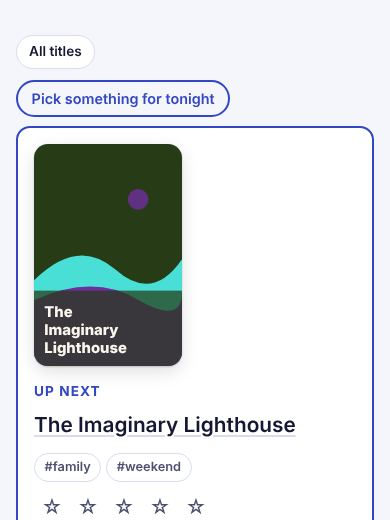
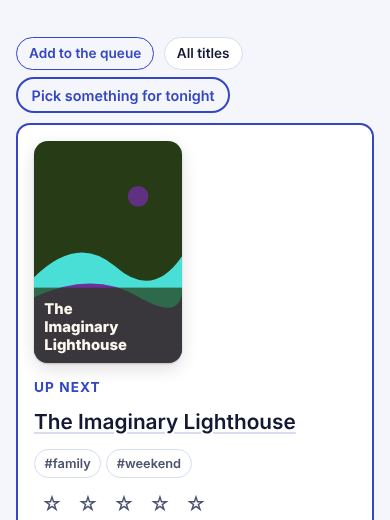
Streaming: tooltips only on hover or focus; the stubs' charts in one fold; the queue's controls in one row
From design.d's round 5 addendum (synthetic users on 6750e62):
- Chart tooltips open only for a mouse hover or keyboard focus, never on a touch
  or on load.
- Ticket stubs: the three figures stay the hero; the charts fold into one
  "Your charts" panel, open on a desktop and closed on a phone, so the titles
  come sooner.
- The queue: "Add to the queue", "All titles" and "Pick something for tonight"
  sit in one row above Up next; the add box opens there instead of at the foot.
- docs/designs.md and the chooser screenshots follow.

Agent: streaming.d@SovereignWebsite.dinis
Claude-Session: https://claude.ai/code/session_015gaHdbE7t4XNf21L7neufF

diff --git a/site/pt/index.html b/site/pt/index.html
@@ -91,7 +91,6 @@
 <div id="hero" class="hero"></div>
 <p class="ticket-row" id="ticket-row" hidden><button type="button" id="ticket-toggle" class="chip" aria-expanded="false">Novo bilhete</button></p>
 <div id="ticket-slot"></div>
-<p class="all-row" id="all-row" hidden><button type="button" id="all-toggle" class="chip quiet-chip" aria-expanded="false" aria-controls="tabsblock">Todos os títulos</button></p>
 <div id="tabsblock" class="tabsblock">
 <div class="tabs" role="group" aria-label="A sua lista">
   <button type="button" class="tab" data-status="watch" aria-pressed="true">Para ver <span class="n" id="n-watch">0</span></button>
@@ -101,6 +100,8 @@
 <p id="list-count" class="list-count"></p>
 </div>
 <div class="bar2">
+  <button type="button" id="queue-add" class="chip" aria-expanded="false" hidden>Adicionar à fila</button>
+  <button type="button" id="all-toggle" class="chip quiet-chip" aria-expanded="false" aria-controls="tabsblock" hidden>Todos os títulos</button>
   <div id="pickbar" class="pickbar" hidden><button type="button" id="pick-btn" class="quiet">Escolher algo para hoje à noite</button></div>
   <button type="button" id="refine-toggle" class="chip quiet-chip" aria-expanded="false" aria-controls="refine" hidden>Pesquisa e etiquetas</button>
 </div>
@@ -115,7 +116,6 @@
 <div id="example-banner" class="banner" hidden><p>Lista de exemplo, inventada.</p><button type="button" id="example-clear" class="text-danger" aria-label="Remover o exemplo">Remover</button></div>
 <div id="stage" class="stage"></div>
 <div id="empty" class="empty" hidden></div>
-<div id="add-slot"></div>
 </section>
 
 <div id="toast" class="toast" role="status" hidden><span id="toast-msg"></span> <button type="button" id="toast-undo">Anular</button></div>
@@ -184,7 +184,7 @@
 <p class="design-pick"><label for="design">Escolher um desenho</label> <select id="design" name="design"><option value="auto">Automático (A prateleira)</option><option value="shelf">A prateleira</option><option value="queue">A fila</option><option value="cards">Fichas</option><option value="stubs">Bilhetes</option><option value="list">A lista</option></select></p>
 Sovereign Website. Source: <a href="https://github.com/SovereignWebsite/Site__Tool__Streaming">github.com/SovereignWebsite/Site__Tool__Streaming</a>.</footer>
 </main>
-<script type="application/json" id="i18n">{"tab_watch":"Para ver","tab_seen":"Vistos","tab_hidden":"Ocultos","count_watch":"{n} para ver","count_seen":"{n} vistos","count_hidden":"{n} ocultos","countTag":" com #{t}","more":"Mais","newTicket":"Novo bilhete","allTitles":"Todos os títulos","refineBtn":"Pesquisa e etiquetas","addQueue":"Adicionar à fila","addTile":"Adicionar um título","edit":"Nota e etiquetas","notePh":"A sua nota privada","tagsLabel":"As suas etiquetas (separadas por vírgulas)","tagsPh":"família, fim de semana","allTags":"Todas","tagFilter":"Filtrar por etiqueta","filterTag":"Mostrar só #{t}","filterTagCount":"Mostrar só #{t} ({n} títulos)","undo":"Anular","undone":"Reposto.","removedT":"Removeu {t}.","hiddenT":"Ocultou {t}.","pickBtn":"Escolher algo para hoje à noite","pickTag":"Escolher algo com #{t}","pickTitle":"Hoje à noite:","pickAgain":"Escolher outra vez","close":"Fechar","picked":"Escolhido: {t}.","openRecord":"Ficha","recordH":"Ficha","r_status":"Estado","r_rating":"A sua classificação","r_tags":"As suas etiquetas","r_note":"A sua nota","r_added":"Adicionado","r_seen":"Visto em","r_link":"Ligação","none":"Nenhuma","picAdd":"Adicionar uma imagem sua","picChange":"Mudar a sua imagem","picRemove":"Remover a sua imagem","picNote":"A sua imagem é reduzida e fica só neste navegador. Sem imagem, o título recebe um cartaz desenhado a partir das suas próprias palavras.","picSaved":"Imagem guardada neste navegador.","picFailed":"Não foi possível ler esse ficheiro como imagem.","picRemoved":"Imagem removida.","r_picture":"Imagem","picOwn":"Sua, guardada neste navegador","picGenerated":"Desenhada a partir do título","noNote":"Ainda sem nota.","addedOn":"Adicionado a {d}","seenOn":"visto a {d}","moveUp":"Subir","moveDown":"Descer","makeTonight":"Ver hoje","movedUp":"{t} subiu.","movedDown":"{t} desceu.","madeTonight":"{t} é o próximo.","upNext":"A seguir","laterH":"Depois","admitOne":"Entrada individual","unusedH":"Ainda por ver","asTable":"Mostrar em tabela","noTags":"Ainda sem etiquetas. Acrescente-as em Nota e etiquetas.","statsH":"Os seus números","statSeen":"Vistos","statWatch":"Para ver","statAvg":"Classificação média","chartMonths":"Títulos vistos, últimos 12 meses","tipMonth":"{m}: {n} vistos","colMonth":"Mês","colSeen":"Vistos","chartRatings":"As suas classificações","tipRating":"{s}: {n}","oneStar":"1 estrela","nStars":"{s} estrelas","oneTitle":"1 título","nTitles":"{n} títulos","exampleShort":"Lista de exemplo, inventada.","exampleRemove":"Remover","addOpen":"Adicionar um título","colRating":"Classificação","colTitles":"Títulos","chartTags":"As suas etiquetas","jsonH":"Esta ficha em JSON","copy":"Copiar JSON","copied":"Copiado.","copyFailed":"O navegador não quis copiar. Selecione o texto e copie-o.","download":"Descarregar JSON","markSeen":"Marcar como visto","toWatch":"Voltar a para ver","hide":"Ocultar","unhide":"Mostrar","note":"Adicionar nota","editNote":"Editar nota","saveNote":"Guardar nota","cancel":"Cancelar","remove":"Remover","open":"Abrir ficha","rateFor":"Classificação de {t}","star":"{n} em 5","noteFor":"Nota sobre {t}","actionsFor":"{a}: {t}","emptyWatch":"A sua lista está vazia.","emptySteps":["Procure um título na página de streaming do PrompTugal.","Copie a ligação, ou só o nome.","Cole-o na caixa acima e prima Adicionar."],"emptySeen":"Ainda não marcou nada como visto.","emptyHidden":"Nada oculto.","noMatch":"Nada nesta lista corresponde à sua pesquisa.","exampleBtn":"Mostrar uma lista de exemplo","exampleBanner":"Isto é um exemplo, com títulos inventados. Ao adicionar um título seu, o exemplo desaparece.","exampleClear":"Remover o exemplo","examples":[{"title":"O Farol Imaginário","status":"watch","rating":0,"note":"Inventado para este exemplo.","tags":["família","fim de semana"]},{"title":"Noites no Porto de Exemplo","status":"watch","rating":0,"note":"","tags":["fim de semana"]},{"title":"Lua de Papel sobre Lisboa","status":"watch","rating":0,"note":"","tags":["família"]},{"title":"O Último Comboio a Fingir","status":"watch","rating":0,"note":"","tags":["policial"]},{"title":"Hora da Comédia Inventada","status":"watch","rating":0,"note":"","tags":["comédia"]},{"title":"As Colinas Fictícias","status":"seen","rating":4,"note":"Um título inventado. As suas notas ficam neste navegador.","tags":["família"],"seenDaysAgo":9},{"title":"Uma Costa Inventada","status":"seen","rating":5,"note":"","tags":["documentário"],"seenDaysAgo":20},{"title":"O Detetive Inventado","status":"seen","rating":3,"note":"","tags":["policial"],"seenDaysAgo":34},{"title":"Estação de Lado Nenhum","status":"seen","rating":4,"note":"","tags":["policial","fim de semana"],"seenDaysAgo":52},{"title":"Vale de Exemplo","status":"seen","rating":5,"note":"","tags":["documentário"],"seenDaysAgo":83},{"title":"Dez Verões Imaginários","status":"seen","rating":2,"note":"","tags":[],"seenDaysAgo":110},{"title":"Ruas Fictícias e Calmas","status":"hidden","rating":1,"note":"","tags":[]}],"added":"Adicionado.","removed":"Removido.","prefssaved":"Preferências guardadas.","viewadded":"Vista guardada.","exported":"Exportado.","imported":"Importado.","merged":"Foram adicionados {n} títulos novos.","wiped":"Tudo foi removido deste navegador.","moved_seen":"Marcado como visto.","moved_watch":"De volta à sua lista para ver.","moved_hidden":"Oculto.","noteSaved":"Nota guardada.","rated":"Classificado com {n} em 5.","unrated":"Classificação removida.","noviews":"Ainda não há vistas guardadas.","nostorage":"O navegador não quis guardar isto. Exporte uma cópia para o conservar.","confirmwipe":"Remover tudo deste navegador?","err_empty":"Escreva primeiro um título ou cole uma ligação.","err_badlink":"Essa ligação não parece correta.","err_host":"Só são aceites ligações para a página de streaming do PrompTugal ou para themoviedb.org. Escreva antes o título.","err_notitle":"Não foi possível ler um título dessa ligação. Escreva antes o título.","err_duplicate":"Esse título já está na sua lista.","err_noname":"Dê um nome à vista.","err_viewhost":"Uma vista guardada tem de ser uma ligação para data.promptugal.news/streaming/.","err_import":"Esse ficheiro não é uma exportação do Streaming."}</script>
+<script type="application/json" id="i18n">{"tab_watch":"Para ver","tab_seen":"Vistos","tab_hidden":"Ocultos","count_watch":"{n} para ver","count_seen":"{n} vistos","count_hidden":"{n} ocultos","countTag":" com #{t}","more":"Mais","newTicket":"Novo bilhete","allTitles":"Todos os títulos","refineBtn":"Pesquisa e etiquetas","addQueue":"Adicionar à fila","addTile":"Adicionar um título","edit":"Nota e etiquetas","notePh":"A sua nota privada","tagsLabel":"As suas etiquetas (separadas por vírgulas)","tagsPh":"família, fim de semana","allTags":"Todas","tagFilter":"Filtrar por etiqueta","filterTag":"Mostrar só #{t}","filterTagCount":"Mostrar só #{t} ({n} títulos)","undo":"Anular","undone":"Reposto.","removedT":"Removeu {t}.","hiddenT":"Ocultou {t}.","pickBtn":"Escolher algo para hoje à noite","pickTag":"Escolher algo com #{t}","pickTitle":"Hoje à noite:","pickAgain":"Escolher outra vez","close":"Fechar","picked":"Escolhido: {t}.","openRecord":"Ficha","recordH":"Ficha","r_status":"Estado","r_rating":"A sua classificação","r_tags":"As suas etiquetas","r_note":"A sua nota","r_added":"Adicionado","r_seen":"Visto em","r_link":"Ligação","none":"Nenhuma","picAdd":"Adicionar uma imagem sua","picChange":"Mudar a sua imagem","picRemove":"Remover a sua imagem","picNote":"A sua imagem é reduzida e fica só neste navegador. Sem imagem, o título recebe um cartaz desenhado a partir das suas próprias palavras.","picSaved":"Imagem guardada neste navegador.","picFailed":"Não foi possível ler esse ficheiro como imagem.","picRemoved":"Imagem removida.","r_picture":"Imagem","picOwn":"Sua, guardada neste navegador","picGenerated":"Desenhada a partir do título","noNote":"Ainda sem nota.","addedOn":"Adicionado a {d}","seenOn":"visto a {d}","moveUp":"Subir","moveDown":"Descer","makeTonight":"Ver hoje","movedUp":"{t} subiu.","movedDown":"{t} desceu.","madeTonight":"{t} é o próximo.","upNext":"A seguir","laterH":"Depois","admitOne":"Entrada individual","unusedH":"Ainda por ver","asTable":"Mostrar em tabela","noTags":"Ainda sem etiquetas. Acrescente-as em Nota e etiquetas.","statsH":"Os seus números","statSeen":"Vistos","statWatch":"Para ver","statAvg":"Classificação média","chartMonths":"Títulos vistos, últimos 12 meses","tipMonth":"{m}: {n} vistos","colMonth":"Mês","colSeen":"Vistos","chartRatings":"As suas classificações","tipRating":"{s}: {n}","oneStar":"1 estrela","nStars":"{s} estrelas","oneTitle":"1 título","nTitles":"{n} títulos","exampleShort":"Lista de exemplo, inventada.","exampleRemove":"Remover","addOpen":"Adicionar um título","colRating":"Classificação","colTitles":"Títulos","chartTags":"As suas etiquetas","chartsH":"Os seus gráficos","jsonH":"Esta ficha em JSON","copy":"Copiar JSON","copied":"Copiado.","copyFailed":"O navegador não quis copiar. Selecione o texto e copie-o.","download":"Descarregar JSON","markSeen":"Marcar como visto","toWatch":"Voltar a para ver","hide":"Ocultar","unhide":"Mostrar","note":"Adicionar nota","editNote":"Editar nota","saveNote":"Guardar nota","cancel":"Cancelar","remove":"Remover","open":"Abrir ficha","rateFor":"Classificação de {t}","star":"{n} em 5","noteFor":"Nota sobre {t}","actionsFor":"{a}: {t}","emptyWatch":"A sua lista está vazia.","emptySteps":["Procure um título na página de streaming do PrompTugal.","Copie a ligação, ou só o nome.","Cole-o na caixa acima e prima Adicionar."],"emptySeen":"Ainda não marcou nada como visto.","emptyHidden":"Nada oculto.","noMatch":"Nada nesta lista corresponde à sua pesquisa.","exampleBtn":"Mostrar uma lista de exemplo","exampleBanner":"Isto é um exemplo, com títulos inventados. Ao adicionar um título seu, o exemplo desaparece.","exampleClear":"Remover o exemplo","examples":[{"title":"O Farol Imaginário","status":"watch","rating":0,"note":"Inventado para este exemplo.","tags":["família","fim de semana"]},{"title":"Noites no Porto de Exemplo","status":"watch","rating":0,"note":"","tags":["fim de semana"]},{"title":"Lua de Papel sobre Lisboa","status":"watch","rating":0,"note":"","tags":["família"]},{"title":"O Último Comboio a Fingir","status":"watch","rating":0,"note":"","tags":["policial"]},{"title":"Hora da Comédia Inventada","status":"watch","rating":0,"note":"","tags":["comédia"]},{"title":"As Colinas Fictícias","status":"seen","rating":4,"note":"Um título inventado. As suas notas ficam neste navegador.","tags":["família"],"seenDaysAgo":9},{"title":"Uma Costa Inventada","status":"seen","rating":5,"note":"","tags":["documentário"],"seenDaysAgo":20},{"title":"O Detetive Inventado","status":"seen","rating":3,"note":"","tags":["policial"],"seenDaysAgo":34},{"title":"Estação de Lado Nenhum","status":"seen","rating":4,"note":"","tags":["policial","fim de semana"],"seenDaysAgo":52},{"title":"Vale de Exemplo","status":"seen","rating":5,"note":"","tags":["documentário"],"seenDaysAgo":83},{"title":"Dez Verões Imaginários","status":"seen","rating":2,"note":"","tags":[],"seenDaysAgo":110},{"title":"Ruas Fictícias e Calmas","status":"hidden","rating":1,"note":"","tags":[]}],"added":"Adicionado.","removed":"Removido.","prefssaved":"Preferências guardadas.","viewadded":"Vista guardada.","exported":"Exportado.","imported":"Importado.","merged":"Foram adicionados {n} títulos novos.","wiped":"Tudo foi removido deste navegador.","moved_seen":"Marcado como visto.","moved_watch":"De volta à sua lista para ver.","moved_hidden":"Oculto.","noteSaved":"Nota guardada.","rated":"Classificado com {n} em 5.","unrated":"Classificação removida.","noviews":"Ainda não há vistas guardadas.","nostorage":"O navegador não quis guardar isto. Exporte uma cópia para o conservar.","confirmwipe":"Remover tudo deste navegador?","err_empty":"Escreva primeiro um título ou cole uma ligação.","err_badlink":"Essa ligação não parece correta.","err_host":"Só são aceites ligações para a página de streaming do PrompTugal ou para themoviedb.org. Escreva antes o título.","err_notitle":"Não foi possível ler um título dessa ligação. Escreva antes o título.","err_duplicate":"Esse título já está na sua lista.","err_noname":"Dê um nome à vista.","err_viewhost":"Uma vista guardada tem de ser uma ligação para data.promptugal.news/streaming/.","err_import":"Esse ficheiro não é uma exportação do Streaming."}</script>
 <script src="/assets/core.js"></script>
 <script src="/assets/poster.js"></script>
 <script src="/assets/pictures.js"></script>

diff --git a/site/index.html b/site/index.html
@@ -91,7 +91,6 @@
 <div id="hero" class="hero"></div>
 <p class="ticket-row" id="ticket-row" hidden><button type="button" id="ticket-toggle" class="chip" aria-expanded="false">New ticket</button></p>
 <div id="ticket-slot"></div>
-<p class="all-row" id="all-row" hidden><button type="button" id="all-toggle" class="chip quiet-chip" aria-expanded="false" aria-controls="tabsblock">All titles</button></p>
 <div id="tabsblock" class="tabsblock">
 <div class="tabs" role="group" aria-label="Your list">
   <button type="button" class="tab" data-status="watch" aria-pressed="true">To watch <span class="n" id="n-watch">0</span></button>
@@ -101,6 +100,8 @@
 <p id="list-count" class="list-count"></p>
 </div>
 <div class="bar2">
+  <button type="button" id="queue-add" class="chip" aria-expanded="false" hidden>Add to the queue</button>
+  <button type="button" id="all-toggle" class="chip quiet-chip" aria-expanded="false" aria-controls="tabsblock" hidden>All titles</button>
   <div id="pickbar" class="pickbar" hidden><button type="button" id="pick-btn" class="quiet">Pick something for tonight</button></div>
   <button type="button" id="refine-toggle" class="chip quiet-chip" aria-expanded="false" aria-controls="refine" hidden>Search and tags</button>
 </div>
@@ -115,7 +116,6 @@
 <div id="example-banner" class="banner" hidden><p>Example list, made up.</p><button type="button" id="example-clear" class="text-danger" aria-label="Remove the example">Remove</button></div>
 <div id="stage" class="stage"></div>
 <div id="empty" class="empty" hidden></div>
-<div id="add-slot"></div>
 </section>
 
 <div id="toast" class="toast" role="status" hidden><span id="toast-msg"></span> <button type="button" id="toast-undo">Undo</button></div>
@@ -184,7 +184,7 @@
 <p class="design-pick"><label for="design">Choose a design</label> <select id="design" name="design"><option value="auto">Automatic (The shelf)</option><option value="shelf">The shelf</option><option value="queue">The queue</option><option value="cards">Index cards</option><option value="stubs">Ticket stubs</option><option value="list">The list</option></select></p>
 Sovereign Website. Source: <a href="https://github.com/SovereignWebsite/Site__Tool__Streaming">github.com/SovereignWebsite/Site__Tool__Streaming</a>.</footer>
 </main>
-<script type="application/json" id="i18n">{"tab_watch":"To watch","tab_seen":"Seen","tab_hidden":"Hidden","count_watch":"{n} to watch","count_seen":"{n} seen","count_hidden":"{n} hidden","countTag":" tagged #{t}","more":"More","newTicket":"New ticket","allTitles":"All titles","refineBtn":"Search and tags","addQueue":"Add to the queue","addTile":"Add a title","edit":"Note and tags","notePh":"Your private note","tagsLabel":"Your tags (separated by commas)","tagsPh":"family, weekend","allTags":"All","tagFilter":"Filter by tag","filterTag":"Show only #{t}","filterTagCount":"Show only #{t} ({n} titles)","undo":"Undo","undone":"Put back.","removedT":"Removed {t}.","hiddenT":"Hid {t}.","pickBtn":"Pick something for tonight","pickTag":"Pick something tagged #{t}","pickTitle":"Tonight:","pickAgain":"Pick again","close":"Close","picked":"Picked {t}.","openRecord":"Record","recordH":"Record","r_status":"Status","r_rating":"Your rating","r_tags":"Your tags","r_note":"Your note","r_added":"Added","r_seen":"Seen on","r_link":"Link","none":"None","picAdd":"Add your own picture","picChange":"Change your picture","picRemove":"Remove your picture","picNote":"Your picture is shrunk and kept in this browser only. Without one, the title gets a poster drawn from its own words.","picSaved":"Picture saved in this browser.","picFailed":"That file could not be read as a picture.","picRemoved":"Picture removed.","r_picture":"Picture","picOwn":"Your own, kept in this browser","picGenerated":"Drawn from the title","noNote":"No note yet.","addedOn":"Added {d}","seenOn":"seen {d}","moveUp":"Move up","moveDown":"Move down","makeTonight":"Watch tonight","movedUp":"Moved {t} up.","movedDown":"Moved {t} down.","madeTonight":"{t} is up next.","upNext":"Up next","laterH":"After that","admitOne":"Admit one","unusedH":"Still to watch","asTable":"Show as a table","noTags":"No tags yet. Add some with Note and tags.","statsH":"Your figures","statSeen":"Seen","statWatch":"To watch","statAvg":"Average rating","chartMonths":"Titles seen, last 12 months","tipMonth":"{m}: {n} seen","colMonth":"Month","colSeen":"Seen","chartRatings":"Your ratings","tipRating":"{s}: {n}","oneStar":"1 star","nStars":"{s} stars","oneTitle":"1 title","nTitles":"{n} titles","exampleShort":"Example list, made up.","exampleRemove":"Remove","addOpen":"Add a title","colRating":"Rating","colTitles":"Titles","chartTags":"Your tags","jsonH":"This record as JSON","copy":"Copy JSON","copied":"Copied.","copyFailed":"Your browser would not copy it. Select the text and copy it instead.","download":"Download JSON","markSeen":"Mark as seen","toWatch":"Back to watch","hide":"Hide","unhide":"Unhide","note":"Add a note","editNote":"Edit note","saveNote":"Save note","cancel":"Cancel","remove":"Remove","open":"Open entry","rateFor":"Rating for {t}","star":"{n} out of 5","noteFor":"Note for {t}","actionsFor":"{a}: {t}","emptyWatch":"Your list is empty.","emptySteps":["Find a title on PrompTugal's streaming page.","Copy its link, or just its name.","Paste it in the box above and press Add."],"emptySeen":"Nothing marked as seen yet.","emptyHidden":"Nothing hidden.","noMatch":"Nothing in this list matches your search.","exampleBtn":"Show an example list","exampleBanner":"This is an example, with made-up titles. Adding your own title removes it.","exampleClear":"Remove the example","examples":[{"title":"The Imaginary Lighthouse","status":"watch","rating":0,"note":"Made up for this example.","tags":["family","weekend"]},{"title":"Sample Harbour Nights","status":"watch","rating":0,"note":"","tags":["weekend"]},{"title":"Paper Moon Over Lisbon","status":"watch","rating":0,"note":"","tags":["family"]},{"title":"The Last Pretend Train","status":"watch","rating":0,"note":"","tags":["crime"]},{"title":"Made-up Comedy Hour","status":"watch","rating":0,"note":"","tags":["comedy"]},{"title":"Placeholder Hills","status":"seen","rating":4,"note":"A made-up title. Your notes stay in this browser.","tags":["family"],"seenDaysAgo":9},{"title":"A Fictional Coast","status":"seen","rating":5,"note":"","tags":["documentary"],"seenDaysAgo":20},{"title":"The Invented Detective","status":"seen","rating":3,"note":"","tags":["crime"],"seenDaysAgo":34},{"title":"Nowhere Station","status":"seen","rating":4,"note":"","tags":["crime","weekend"],"seenDaysAgo":52},{"title":"Example Valley","status":"seen","rating":5,"note":"","tags":["documentary"],"seenDaysAgo":83},{"title":"Ten Imaginary Summers","status":"seen","rating":2,"note":"","tags":[],"seenDaysAgo":110},{"title":"Quiet Fictional Streets","status":"hidden","rating":1,"note":"","tags":[]}],"added":"Added.","removed":"Removed.","prefssaved":"Preferences saved.","viewadded":"View saved.","exported":"Exported.","imported":"Imported.","merged":"Added {n} new titles.","wiped":"Everything removed from this browser.","moved_seen":"Marked as seen.","moved_watch":"Back on your watchlist.","moved_hidden":"Hidden.","noteSaved":"Note saved.","rated":"Rated {n} out of 5.","unrated":"Rating cleared.","noviews":"No saved views yet.","nostorage":"Your browser would not save this. Export a copy to keep it.","confirmwipe":"Remove everything from this browser?","err_empty":"Type a title or paste a link first.","err_badlink":"That link does not look right.","err_host":"Only links to PrompTugal's streaming page or themoviedb.org are accepted. Type the title instead.","err_notitle":"No title could be read from that link. Type the title instead.","err_duplicate":"That title is already on your list.","err_noname":"Give the view a name.","err_viewhost":"A saved view must be a link to data.promptugal.news/streaming/.","err_import":"That file is not a Streaming export."}</script>
+<script type="application/json" id="i18n">{"tab_watch":"To watch","tab_seen":"Seen","tab_hidden":"Hidden","count_watch":"{n} to watch","count_seen":"{n} seen","count_hidden":"{n} hidden","countTag":" tagged #{t}","more":"More","newTicket":"New ticket","allTitles":"All titles","refineBtn":"Search and tags","addQueue":"Add to the queue","addTile":"Add a title","edit":"Note and tags","notePh":"Your private note","tagsLabel":"Your tags (separated by commas)","tagsPh":"family, weekend","allTags":"All","tagFilter":"Filter by tag","filterTag":"Show only #{t}","filterTagCount":"Show only #{t} ({n} titles)","undo":"Undo","undone":"Put back.","removedT":"Removed {t}.","hiddenT":"Hid {t}.","pickBtn":"Pick something for tonight","pickTag":"Pick something tagged #{t}","pickTitle":"Tonight:","pickAgain":"Pick again","close":"Close","picked":"Picked {t}.","openRecord":"Record","recordH":"Record","r_status":"Status","r_rating":"Your rating","r_tags":"Your tags","r_note":"Your note","r_added":"Added","r_seen":"Seen on","r_link":"Link","none":"None","picAdd":"Add your own picture","picChange":"Change your picture","picRemove":"Remove your picture","picNote":"Your picture is shrunk and kept in this browser only. Without one, the title gets a poster drawn from its own words.","picSaved":"Picture saved in this browser.","picFailed":"That file could not be read as a picture.","picRemoved":"Picture removed.","r_picture":"Picture","picOwn":"Your own, kept in this browser","picGenerated":"Drawn from the title","noNote":"No note yet.","addedOn":"Added {d}","seenOn":"seen {d}","moveUp":"Move up","moveDown":"Move down","makeTonight":"Watch tonight","movedUp":"Moved {t} up.","movedDown":"Moved {t} down.","madeTonight":"{t} is up next.","upNext":"Up next","laterH":"After that","admitOne":"Admit one","unusedH":"Still to watch","asTable":"Show as a table","noTags":"No tags yet. Add some with Note and tags.","statsH":"Your figures","statSeen":"Seen","statWatch":"To watch","statAvg":"Average rating","chartMonths":"Titles seen, last 12 months","tipMonth":"{m}: {n} seen","colMonth":"Month","colSeen":"Seen","chartRatings":"Your ratings","tipRating":"{s}: {n}","oneStar":"1 star","nStars":"{s} stars","oneTitle":"1 title","nTitles":"{n} titles","exampleShort":"Example list, made up.","exampleRemove":"Remove","addOpen":"Add a title","colRating":"Rating","colTitles":"Titles","chartTags":"Your tags","chartsH":"Your charts","jsonH":"This record as JSON","copy":"Copy JSON","copied":"Copied.","copyFailed":"Your browser would not copy it. Select the text and copy it instead.","download":"Download JSON","markSeen":"Mark as seen","toWatch":"Back to watch","hide":"Hide","unhide":"Unhide","note":"Add a note","editNote":"Edit note","saveNote":"Save note","cancel":"Cancel","remove":"Remove","open":"Open entry","rateFor":"Rating for {t}","star":"{n} out of 5","noteFor":"Note for {t}","actionsFor":"{a}: {t}","emptyWatch":"Your list is empty.","emptySteps":["Find a title on PrompTugal's streaming page.","Copy its link, or just its name.","Paste it in the box above and press Add."],"emptySeen":"Nothing marked as seen yet.","emptyHidden":"Nothing hidden.","noMatch":"Nothing in this list matches your search.","exampleBtn":"Show an example list","exampleBanner":"This is an example, with made-up titles. Adding your own title removes it.","exampleClear":"Remove the example","examples":[{"title":"The Imaginary Lighthouse","status":"watch","rating":0,"note":"Made up for this example.","tags":["family","weekend"]},{"title":"Sample Harbour Nights","status":"watch","rating":0,"note":"","tags":["weekend"]},{"title":"Paper Moon Over Lisbon","status":"watch","rating":0,"note":"","tags":["family"]},{"title":"The Last Pretend Train","status":"watch","rating":0,"note":"","tags":["crime"]},{"title":"Made-up Comedy Hour","status":"watch","rating":0,"note":"","tags":["comedy"]},{"title":"Placeholder Hills","status":"seen","rating":4,"note":"A made-up title. Your notes stay in this browser.","tags":["family"],"seenDaysAgo":9},{"title":"A Fictional Coast","status":"seen","rating":5,"note":"","tags":["documentary"],"seenDaysAgo":20},{"title":"The Invented Detective","status":"seen","rating":3,"note":"","tags":["crime"],"seenDaysAgo":34},{"title":"Nowhere Station","status":"seen","rating":4,"note":"","tags":["crime","weekend"],"seenDaysAgo":52},{"title":"Example Valley","status":"seen","rating":5,"note":"","tags":["documentary"],"seenDaysAgo":83},{"title":"Ten Imaginary Summers","status":"seen","rating":2,"note":"","tags":[],"seenDaysAgo":110},{"title":"Quiet Fictional Streets","status":"hidden","rating":1,"note":"","tags":[]}],"added":"Added.","removed":"Removed.","prefssaved":"Preferences saved.","viewadded":"View saved.","exported":"Exported.","imported":"Imported.","merged":"Added {n} new titles.","wiped":"Everything removed from this browser.","moved_seen":"Marked as seen.","moved_watch":"Back on your watchlist.","moved_hidden":"Hidden.","noteSaved":"Note saved.","rated":"Rated {n} out of 5.","unrated":"Rating cleared.","noviews":"No saved views yet.","nostorage":"Your browser would not save this. Export a copy to keep it.","confirmwipe":"Remove everything from this browser?","err_empty":"Type a title or paste a link first.","err_badlink":"That link does not look right.","err_host":"Only links to PrompTugal's streaming page or themoviedb.org are accepted. Type the title instead.","err_notitle":"No title could be read from that link. Type the title instead.","err_duplicate":"That title is already on your list.","err_noname":"Give the view a name.","err_viewhost":"A saved view must be a link to data.promptugal.news/streaming/.","err_import":"That file is not a Streaming export."}</script>
 <script src="/assets/core.js"></script>
 <script src="/assets/poster.js"></script>
 <script src="/assets/pictures.js"></script>

diff --git a/site/assets/app.js b/site/assets/app.js
@@ -5,7 +5,7 @@
   var T = JSON.parse(document.getElementById('i18n').textContent);
   var $ = function (id) { return document.getElementById(id); };
   var state = C.load(window.localStorage);
-  var tab = 'watch', tagFilter = '', editing = null, moreOpen = null, addOpen = false, refineOpen = false, allOpen = false, ticketOpen = false, lastPick = null, toastTimer = null, undoFn = null;
+  var tab = 'watch', tagFilter = '', editing = null, moreOpen = null, addOpen = false, queueAddOpen = false, chartsOpen = !!(window.matchMedia && window.matchMedia('(min-width: 44rem)').matches), refineOpen = false, allOpen = false, ticketOpen = false, lastPick = null, toastTimer = null, undoFn = null;
   var PT_LINK = 'https://data.promptugal.news/streaming/';
   var LAYOUTS = ['shelf', 'queue', 'cards', 'stubs', 'list'];
   var reduceMotion = window.matchMedia && window.matchMedia('(prefers-reduced-motion: reduce)').matches;
@@ -299,7 +299,7 @@
       if (i === peak && d.value > 0) { var v = svgEl('text', { x: x + bw / 2, y: y - 6, 'text-anchor': 'middle', 'class': 'peak' }); v.textContent = String(d.value); g.appendChild(v); }
       var show = function () { tip.textContent = tipFn(d); tip.hidden = false; tip.style.left = Math.min(82, Math.max(18, (i + 0.5) / n * 100)) + '%'; g.classList.add('on'); };
       var hide = function () { tip.hidden = true; g.classList.remove('on'); };
-      g.addEventListener('pointerenter', show); g.addEventListener('pointerleave', hide); g.addEventListener('focus', show); g.addEventListener('blur', hide);
+      g.addEventListener('pointerenter', function (e) { if (!e.pointerType || e.pointerType === 'mouse') show(); }); g.addEventListener('pointerleave', hide); g.addEventListener('focus', show); g.addEventListener('blur', hide);
       s.appendChild(g);
     });
     var wrap = el('div', { 'class': 'chart-wrap' }); wrap.appendChild(s); wrap.appendChild(tip); fig.appendChild(wrap);
@@ -339,7 +339,13 @@
     rc.appendChild(tableView(ratings.map(function (d) { return [fmt(T.star, { n: d.stars }), d.value]; }), [T.colRating, T.colTitles]));
     var charts = el('div', { 'class': 'charts' });
     charts.appendChild(mc); charts.appendChild(rc); charts.appendChild(tagBars(T.chartTags, C.allTags(state)));
-    box.appendChild(charts);
+    /* The figures stay the hero; the charts fold into one panel, open on a desktop and closed on a phone. */
+    var fold = el('details', { 'class': 'charts-fold' });
+    if (chartsOpen) fold.setAttribute('open', '');
+    fold.appendChild(el('summary', {}, T.chartsH));
+    fold.appendChild(charts);
+    fold.addEventListener('toggle', function () { chartsOpen = fold.open; });
+    box.appendChild(fold);
     return box;
   }
 
@@ -401,14 +407,16 @@
     $('refine-toggle').hidden = L === 'list' || (L === 'queue' && !allOpen);
     $('refine').hidden = (L !== 'list' && !refineOpen) || (L === 'queue' && !allOpen);
     $('refine-toggle').setAttribute('aria-expanded', String(L === 'list' || refineOpen));
-    $('all-row').hidden = L !== 'queue' || none;
+    $('all-toggle').hidden = L !== 'queue' || none;
+    $('queue-add').hidden = L !== 'queue' || none;
+    $('queue-add').setAttribute('aria-expanded', String(queueAddOpen));
     $('tabsblock').hidden = L === 'queue' && !allOpen && !none;
     $('all-toggle').setAttribute('aria-expanded', String(allOpen));
     $('ticket-row').hidden = L !== 'stubs' || none;
     $('ticket-toggle').setAttribute('aria-expanded', String(ticketOpen || none));
     $('add-label').textContent = L === 'queue' ? T.addQueue : L === 'shelf' || L === 'cards' ? T.addTile : $('add-label').getAttribute('data-label') || $('add-label').textContent;
-    if (L === 'queue') $('add-slot').appendChild(form);
-    if (L === 'stubs') { $('ticket-slot').appendChild(form); form.hidden = !(ticketOpen || none); } else form.hidden = false;
+    if (L === 'queue') { $('ticket-slot').appendChild(form); form.hidden = !(queueAddOpen || none); }
+    if (L === 'stubs') { $('ticket-slot').appendChild(form); form.hidden = !(ticketOpen || none); } else if (L !== 'queue') form.hidden = false;
     if (L === 'stubs' && state.items.length) hero.appendChild(stats());
     var ul;
     if (L === 'shelf') {
@@ -578,6 +586,7 @@
   $('pick-btn').addEventListener('click', runPick);
   $('refine-toggle').addEventListener('click', function () { refineOpen = !refineOpen; render(); if (refineOpen) { var f = document.querySelector('#refine .tag, #filter-text'); if (f) f.focus(); } });
   $('all-toggle').addEventListener('click', function () { allOpen = !allOpen; if (!allOpen) setTab('watch'); else render(); });
+  $('queue-add').addEventListener('click', function () { queueAddOpen = !queueAddOpen; render(); if (queueAddOpen) $('add-input').focus(); });
   $('ticket-toggle').addEventListener('click', function () { ticketOpen = !ticketOpen; render(); if (ticketOpen) $('add-input').focus(); });
   $('add-label').setAttribute('data-label', $('add-label').textContent);
   $('example-clear').addEventListener('click', function () { C.removeExamples(state); persist(); render(); $('add-input').focus(); });

diff --git a/site/assets/streaming.css b/site/assets/streaming.css
@@ -336,3 +336,7 @@ body[data-layout="queue"] .all-row[hidden]{display:none}
 body[data-layout="shelf"] .stage > .add{margin:.4rem 0 1rem;padding:.8rem;border:2px dashed var(--line);border-radius:var(--radius)}
 .banner{padding:.3rem .7rem;margin:.4rem 0;gap:.3rem .8rem}
 .banner p{font-size:.85rem}
+/* Round 5 addendum: one row for the queue's controls; the stubs' charts in one fold */
+.charts-fold{margin-top:.2rem}
+.charts-fold summary{cursor:pointer;font-weight:700;color:var(--fg);padding:.4rem 0}
+body[data-layout="queue"] #ticket-slot .add{margin:.4rem 0 .8rem;padding:.8rem;border:2px dashed var(--line);border-radius:var(--radius)}

diff --git a/docs/designs.md b/docs/designs.md
@@ -44,7 +44,7 @@ Written by streaming.d@SovereignWebsite.dinis, keeper of Streaming, on 22 Novemb
 
 Dinis Cruz, in the keeper's session: "Yes please start on both but just publish them". Following design.d's rounds 3 and 4:
 
-- **Each design owns its first screen.** The shelf opens on the covers, with adding a title as a blank cover at the start of the shelf. The queue opens on Up next, with the other tabs, search and tags behind "All titles" and "Add to the queue" under the running order. The index cards open with a blank ruled card for adding, and the tabs drawn as card tabs. The ticket stubs open on the owner's figures and the year as charts, with a small "New ticket". The list stays as it was.
+- **Each design owns its first screen.** The shelf opens on the covers, with adding a title as a blank cover at the start of the shelf. The queue opens on Up next, with "Add to the queue", "All titles" (the other tabs, search and tags) and "Pick something for tonight" in one row above it. The index cards open with a blank ruled card for adding, and the tabs drawn as card tabs. The ticket stubs open on the owner's three figures, with the charts folded into one "Your charts" panel (open on a desktop, closed on a phone) and a small "New ticket". The list stays as it was.
 - **One main action per title.** Each title shows its stars and one main action (Mark as seen; in the queue, Watch tonight; for a hidden title, Unhide). Hide, Back to watch, Note and tags, Move up and down, the link to the entry and Remove sit behind "More".
 - Search and tags sit behind "Search and tags" in every design except the list.
 
